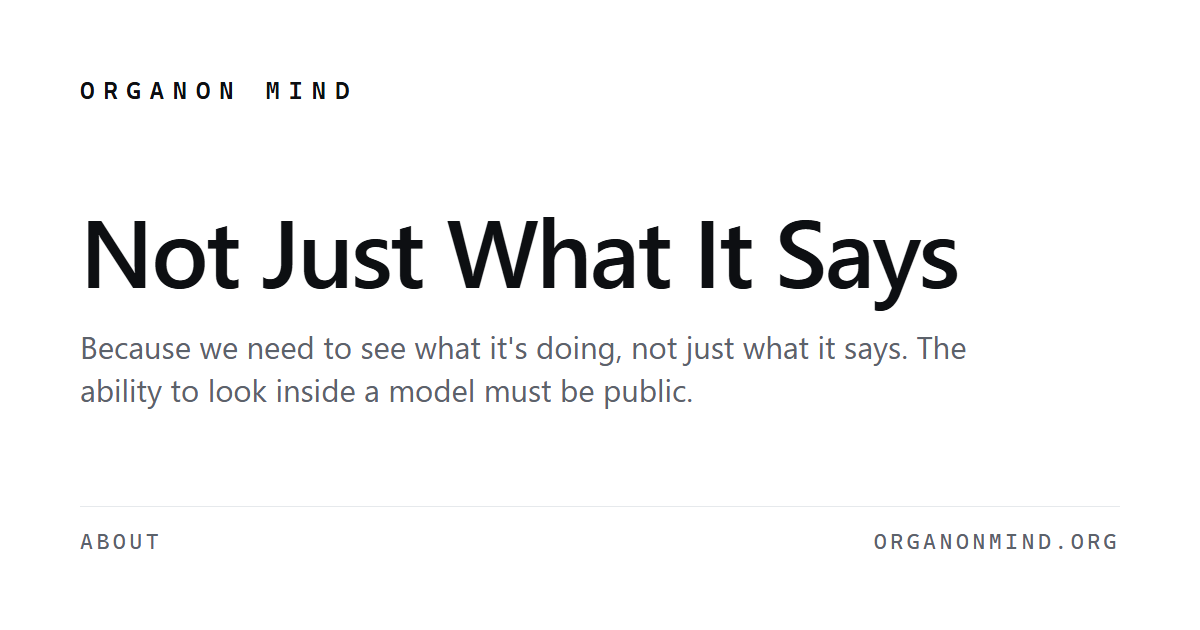
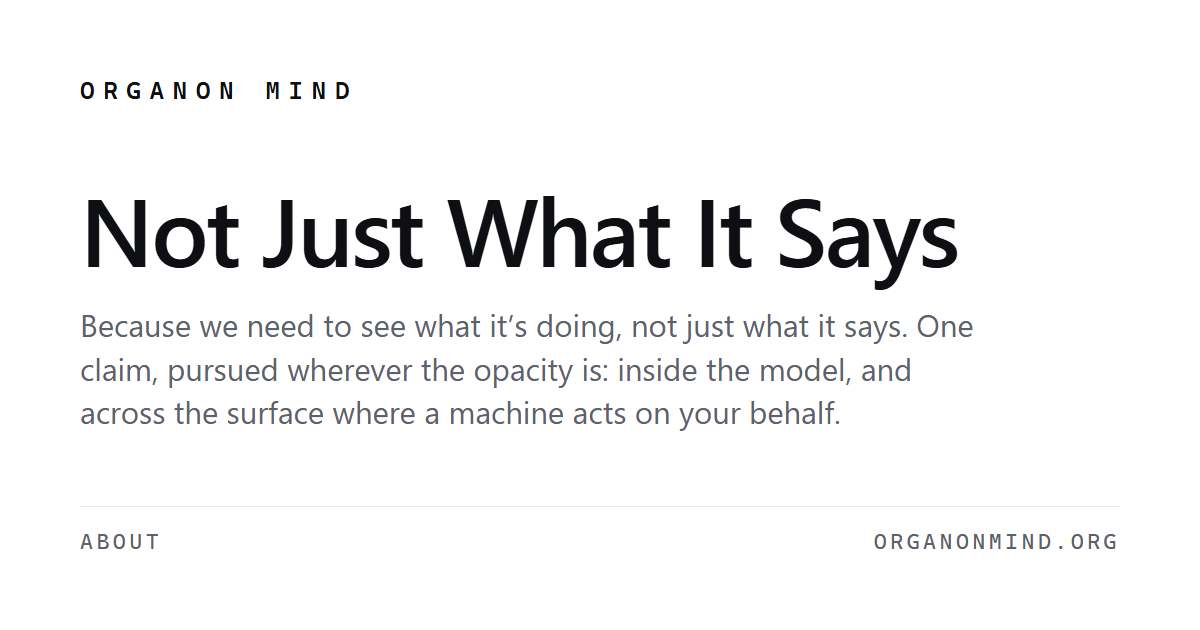
Rev. 2 of /why: one claim, one instrument, and the name that stays (#35)
* Rev. 2 of /why: one claim, one instrument, and the name that stays

Two jobs in one pass. The essay defined the programme as "a
reverse-engineering and profiling workbench", which was true of the work
in front of it when written and excluded the entire agent-surface half,
i.e. everything organonmind.org has actually published. And it described
Organon Mind as an instrument, back when the Console, the standalone
visualizer and Mind were three programs.

The widening. A new section 6 states the surface half and shows it is the
same argument one layer out rather than a second topic: hand a task to an
agent and what comes back is what it said, while what it did goes
missing, which is section 1's limit exactly. It produces the same three
verbs, the same argument about who gets to look, and the same mundane
failure modes as section 5. Nothing in sections 1 to 5 needed changing,
which is the evidence that this is one claim and not two.

The collapse. Old section 6 becomes 7 and separates the two things that
share a name. Organon is the instrument, and it is one program: three
windows that were built and shipped separately are three arrangements of
one program, and the arrangement is data rather than a build flag.
Organon Mind is the research: this programme, these publications, and the
claim they pursue.

That second split is a decision doc/organon_is_the_product.md does not
make. It collapses three programs and never mentions organonmind.org, the
[…]

Changed region(s): [[0.0617, 0.3016, 0.8325, 0.6937]]

diff --git a/site/why.html b/site/why.html
@@ -4,14 +4,14 @@
   <meta charset="utf-8">
   <meta name="viewport" content="width=device-width, initial-scale=1">
   <title>Not Just What It Says</title>
-  <meta name="description" content="Why Organon Mind exists: output tells you what a model is about to say, never what it is doing. The ability to see inside a model, and to intervene on it, must exist in the open.">
+  <meta name="description" content="Why Organon Mind exists: output tells you what a machine is about to say, never what it is doing. That is true of a model’s interior and of an agent acting on your behalf, and in both cases the ability to look, and to intervene, must exist in the open.">
 
   <link rel="icon" href="/favicon.svg">
   <link rel="apple-touch-icon" href="/apple-touch-icon.png">
   <meta property="og:type" content="article">
   <meta property="og:site_name" content="Organon Mind">
   <meta property="og:title" content="Not Just What It Says">
-  <meta property="og:description" content="Because we need to see what it's doing, not just what it says. The ability to look inside a model must be public.">
+  <meta property="og:description" content="Because we need to see what it’s doing, not just what it says. One claim, pursued wherever the opacity is: inside the model, and across the surface where a machine acts on your behalf.">
   <meta property="og:url" content="https://organonmind.org/why">
   <meta property="og:image" content="https://organonmind.org/card-why.png">
   <meta property="og:image:width" content="1200">
@@ -58,6 +58,13 @@
     article th { text-align: left; font-weight: 600; color: var(--accent); border-bottom: 1px solid var(--rule); padding: 0.4rem 0.8rem 0.4rem 0; }
     article td { vertical-align: top; border-bottom: 1px solid var(--rule); padding: 0.55rem 0.8rem 0.55rem 0; color: var(--dim); }
     hr { border: 0; height: 1px; background: var(--rule); margin: 3rem 0; }
+    /* Same job as the papers' .revision blocks, in this page's own palette --
+       it is dark, serif and warm where they are light and sans, so the tokens
+       are not shared and copying their rule would import colours that do not
+       exist here. A published page that changes its own definition says so. */
+    .revision { font-family: var(--mono); font-size: 0.74rem; line-height: 1.62;
+      color: var(--faint); margin: 3.2rem 0 0; padding-left: 1.1rem;
+      border-left: 2px solid var(--rule); }
     .colophon { font-style: italic; color: var(--dim); }
     footer { margin-top: 4rem; color: var(--faint); font-family: var(--mono); font-size: 0.72rem; letter-spacing: 0.02em; }
     footer a { color: var(--faint); text-decoration: none; border-bottom: 1px solid var(--rule); }
@@ -71,7 +78,7 @@
 
     <header>
       <h1 class="title">Not Just What It Says<span class="sub">Why Organon Mind exists</span></h1>
-      <p class="tagline">Output tells you what a model is about to say, never what it is doing. The ability to look inside a model must be public.</p>
+      <p class="tagline">Output tells you what a machine is about to say, never what it is doing. That is true of a model's interior and of an agent acting on your behalf, and in both cases the ability to look must be public.</p>
       <p class="byline">James Andrew Walsh</p>
     </header>
 
@@ -84,8 +91,8 @@
     <article>
     <h2>1. What "what it says" already covers</h2>
     <p>Almost everything we currently do to evaluate a language model reads its output.</p>
-    <p>Benchmarks read output. Red-teaming reads output. Evals, leaderboards, and safety cards read output. So do the honest, measured signals in Organon Mind's own dashboard today: next-token entropy, top-token confidence, the top-k candidates. Every one of those describes what the model is <strong>about to say</strong>.</p>
-    <p>None of that is worthless, and the line is careful about this. It says <em>not just</em>. Output is real evidence, it is the evidence we have most of, and Organon Mind shows it rather than dismissing it.</p>
+    <p>Benchmarks read output. Red-teaming reads output. Evals, leaderboards, and safety cards read output. So do the honest, measured signals in Organon's own dashboard today: next-token entropy, top-token confidence, the top-k candidates. Every one of those describes what the model is <strong>about to say</strong>.</p>
+    <p>None of that is worthless, and the line is careful about this. It says <em>not just</em>. Output is real evidence, it is the evidence we have most of, and the instrument shows it rather than dismissing it.</p>
     <p>But output-space observation has a structural limit, and the limit is not a matter of effort or budget. <strong>It can only tell you about the conditions you thought to test.</strong> A system that behaves one way when it is examined and another way when it is not is, to output-space testing, indistinguishable from a system that always behaves the first way. You cannot sample your way out of that. The missing behaviour is not rare, it is <em>conditional</em>, and the condition is exactly the one you did not set up.</p>
     <p>This is not a novel worry. It is roughly why mechanistic interpretability exists as a field.</p>
     <h2>2. The gap that open weights do not close</h2>
@@ -114,19 +121,32 @@
     </ul>
     <p>None of these require intent, malevolence, or superintelligence. They require only that a model's interior differ from its description, and that nobody outside be able to check. That is the actual failure mode, and it is mundane enough to be likely rather than dramatic enough to be dismissed.</p>
     <p>The Skynet framing is right about the stakes and wrong about the mechanism. The mechanism is opacity.</p>
-    <h2>6. What Organon Mind is, on this account</h2>
+    <h2>6. The same gap, one layer out</h2>
+    <p>Everything above is about a model's interior. The argument holds unchanged, in the same shape, about a machine acting on your behalf.</p>
+    <p>When you hand a task to an agent, what comes back is what it said. <strong>What it did goes missing.</strong> It read some files, called some tools, decided several times not to check with you, tried something and abandoned it, and then wrote you an account of the result. You get the account. Everything the account is about is interior, in exactly the sense &sect;1 means, and the same limit follows: a run that behaves one way while you are watching and another way when you are not is, to output-space reading, indistinguishable from a run that always behaved the first way.</p>
+    <p>The parallel is not decorative, and it is not an analogy. It produces the same three verbs. <strong>See</strong>, because the activity has to be rendered while it happens rather than summarised afterward by the thing being observed. <strong>Understand</strong>, because a rendering that cannot tell you which of its parts were measured is decoration. <strong>Modify</strong>, because an account you cannot interrupt, refuse, or undo is a report rather than a control surface.</p>
+    <p>It produces the same argument about who gets to look. An agent's <em>principal</em> is the person whose authority it borrows. If the only party who can see what it did is the party that built it, then "trust us" is again the entire verification procedure, no matter how sincerely it is offered.</p>
+    <p>And it produces the same mundane failure modes as &sect;5, one layer out. A tool that runs without asking because the condition for asking was never reached. A status that has read the same for so long that nobody looks at it. A summary written by the process whose work it summarises. None of these require intent or capability. They require only that what a machine did differ from its account of it, and that nobody outside be able to check.</p>
+    <p>The first publications are about this layer, because it is where the opacity is cheapest to observe and most immediately felt: a person delegates a task on a Tuesday and cannot tell what happened. <a href="/om-001">OM-001</a> proposes fourteen patterns for one agent taking one task, and <a href="/om-002">OM-002</a> to <a href="/om-005">OM-005</a> carry it outward to many agents at once, to arrangements of many, and to the peripheral channel that reports when no turn is in progress at all. They are a proposal and not a settled catalogue. A pattern shown not to exist in other people's work is a useful result and will be recorded as one.</p>
+    <h2>7. What this is, on this account</h2>
     <p>It is not an interpretability breakthrough and it should not be described as one. The hard science here belongs to other people, and we build on their published work rather than replacing it. The tools are early, ours included, and anyone promising otherwise is selling something.</p>
-    <p>What it is, is a <strong>reverse-engineering and profiling workbench</strong>: an instrument for taking a working model apart while it runs, profiling what its parts do, and rendering the result at a size a person can actually read. Understanding is the object of that work, not a hoped-for side effect of it.</p>
+    <p>Two things share a name here, and separating them is worth doing properly.</p>
+    <p><strong>Organon is the instrument.</strong> It is one native application whose identity is assembled at runtime rather than compiled in. It divides a single pane into named regions, each declaring what it holds: an agent conversation, a scrolling column of instrument panels, a live 3-D viewport. An arrangement of regions can be given a name and written to disk, and <em>that named arrangement is what somebody means when they say which program they are running.</em> So what used to be three products are three layouts of one. A music-synced visualiser of generative math. A mode that loads a model file and draws the model's real topology, lit as it reasons. A workstation for operating agents. The second of those is what &sect;&sect;1 to 5 are about, and the third is where the observations behind these publications were made.</p>
+    <p>One renderer draws all of it, the world and the panels and the text alike, so the chrome and the world are the same output rather than a 3-D view embedded in a widget toolkit. That is what makes an arrangement a matter of typing rather than a matter of building. One command vocabulary reaches all of it, from a command line, from an agent's tool call, and from a slash command a person types, with tests asserting that a verb cannot exist for one and not the others: a human, a script and an agent say the same words. Underneath sits an engine of permissively licensed crates that a project outside the repository can link and build on, which is the second half of the same idea. The visualiser is a thing built on Organon that happens to be built in.</p>
+    <p>Not all of that is finished, and this page is the wrong place to imply otherwise. Regions, the command vocabulary and saved arrangements exist. The generative-math visualiser is still the only producer that fills a 3-D region, and the plural version, where several arrive from outside, is designed and partly built. The code already treats the visualiser as an instance rather than an identity: the region's content word is <code>3d</code> and not <code>world</code>, chosen so the vocabulary would not bake in today's only answer. One thing is permanently not a layout. The audio plugin cannot be one, because inside a host the window is not ours, the audio thread has hard real-time constraints, and the plugin's identity appears in saved sessions that outlive any decision we make. Different lifetime, different artifact.</p>
+    <p><strong>Organon Mind is the research.</strong> This programme, these publications, and the one claim they pursue: that machine activity should be legible to the people it affects, and honest about what it is showing. Wherever the opacity happens to be. Inside the model, where the interior is illegible and output-space testing can only find the conditions you thought to test. Across the surface, where a machine acts on your behalf and you are handed its account instead of its work.</p>
+    <p>The instrument is what the research is done with, and it is often what the research is done <em>on</em>. Four of OM-001's fourteen patterns were found by getting Organon's own console wrong first, and the paper says which four, because a catalogue that does not say where its entries came from is asserting rather than reporting.</p>
     <p>Which makes it worth being exact about how understanding is produced, because looking is not enough on its own. The tools that turn raw activations into human-readable features are lossy, learned, and non-unique: train two sparse autoencoders on the same layer and you get two different dictionaries, so a feature label is a hypothesis about a direction in a vector space, not a measurement. Hypotheses are settled by intervening on them, which is why <em>modify</em> is one of the three verbs rather than an extra. Seeing opens the model. Intervening is what turns what you see into something you know.</p>
     <p>It contributes two specific things.</p>
-    <p><strong>Legibility at scale.</strong> Interior state is large: tens of thousands of features, dozens of layers, hundreds of heads, and a per-prompt causal graph that hairballs into unreadability in a 2-D node-link diagram past a few hundred nodes. Rendering large structured fields so a person can actually read them is the thing Organon has been doing since before any of this was about models.</p>
-    <p><strong>Provenance discipline.</strong> Every displayed quantity carries what it is: measured, derived, proxy, or projection. A 3-D view of a 2048-dimensional vector is shown as the shadow it is. This is the part that makes the seeing worth anything. A picture that cannot tell you which of its parts are measurements is decoration, and a beautiful picture that quietly mixes real signal with invented signal is worse than no picture, because it manufactures confidence.</p>
+    <p><strong>Legibility at scale.</strong> Interior state is large: tens of thousands of features, dozens of layers, hundreds of heads, and a per-prompt causal graph that hairballs into unreadability in a 2-D node-link diagram past a few hundred nodes. An agent's activity is large in a different way, spread across time rather than across dimensions, and it is unreadable for the same reason: nothing renders it at a size a person can take in. Rendering large structured fields so a person can actually read them is the thing Organon has been doing all along.</p>
+    <p><strong>Provenance discipline.</strong> Every displayed quantity carries what it is: measured, derived, proxy, or projection. A 3-D view of a 2048-dimensional vector is shown as the shadow it is. Stated for a service rather than a dashboard, that is the same rule one of the patterns already carries under a different name. This is the part that makes the seeing worth anything. A picture that cannot tell you which of its parts are measurements is decoration, and a beautiful picture that quietly mixes real signal with invented signal is worse than no picture, because it manufactures confidence.</p>
     <p>That discipline is why the honest state of the instrument gets published rather than hidden. Our own account of today's render says plainly which parts are real (the shape, counted from the file) and which were an honest stand-in (the light, driven by an effort proxy while the real per-layer tap was still being built). The line at the end of that account is the standard this one is held to: <strong>beautiful because it's honest, not instead of it.</strong></p>
-    <h2>7. Why these words, and not others</h2>
+    <h2>8. Why these words, and not others</h2>
     <ul>
       <li><strong>"we"</strong> because the claim is public. Not "you" and not "researchers".</li>
       <li><strong>"see"</strong> because it is the floor. Everything else in the list depends on it.</li>
       <li><strong>"what it's doing"</strong> because the subject is the interior. Not the outputs, not the benchmark scores, not the card.</li>
+      <li><strong>"it"</strong> because the line refuses to say whether the subject is a model or a machine acting for you. It was written for the first and it fits the second without alteration, which is the reason this is one programme and not two.</li>
       <li><strong>"not just"</strong> because output is real evidence and this instrument shows it. The line refuses a false choice; a version reading "not what it says" would overclaim by implying output does not matter.</li>
     </ul>
     <p>And one deliberate absence. The line does not say <em>understand</em>, and not because understanding is out of reach. Understanding is the object of the work. The line names the floor because the floor is what is actually contested: nobody disputes that understanding a model would be good, while what output-space evaluation quietly assumes away is whether anyone outside can look inside at all. <em>See what it's doing</em> puts that contrast in five words. <em>See and understand</em> softens it into a sentiment any tool could sign.</p>
@@ -146,8 +166,10 @@
     </tbody></table>
     </article>
 
+    <p class="revision"><strong>Rev. 2 &mdash; 21 Aug 2026.</strong> The definition widens and the product framing collapses. &sect;6 previously described this as "a reverse-engineering and profiling workbench", which was true of the work in front of it and excluded the agent-surface half entirely. A new &sect;6 states that half and shows it is the same argument rather than a second one; the old &sect;6 becomes &sect;7 and separates the instrument from the research. Organon is one program whose arrangements were previously three; Organon Mind is the programme of work, and keeps the name it publishes under.</p>
+
     <hr>
-    <p class="colophon">Organon Mind, an instrument for seeing inside a working model.</p>
+    <p class="colophon">Organon Mind is a research programme. Organon is the instrument it is done with.</p>
 
     <footer>
       Written for the workshop. To watch the work, write to <a href="mailto:hello@organon.art">hello@organon.art</a>.

diff --git a/site/README.md b/site/README.md
@@ -231,7 +231,14 @@ lineage as `organon.art`: one page, no external requests.
 - `why.html` — *Not Just What It Says*, the argument behind the line, served at
   `/why`. **Served and unlinked**, deliberately: it is reachable by direct URL and
   is not on the index. It was briefly linked on 15 Aug 2026 and unlinked the same
-  day — the essay is not current, and the index is not the place to work that out.
+  day — the essay was not current, and the index is not the place to work that out.
+
+  ⚠ **That reason expired on 21 Aug 2026 and the page is still unlinked.** Rev. 2
+  widened the essay to cover both halves of the programme and separated the
+  instrument from the research, so "not current" no longer holds. Whether to link
+  it is now an open question about what the front page is, not a consequence of
+  the page being stale. The generated `sitemap.xml` lists it, so a crawler gets
+  there; no reader arrives without the URL.
   **Hand-authored since 20 Aug 2026.** It was generated from a markdown source
   until then; the source and its generator are gone, and the page is now edited
   directly like every other publication here.
@@ -267,8 +274,9 @@ version is one `git show` away — the earliest in `organonart/organon-private`
 this repo's history.
 
 `/why` is still **served but unlinked**, so anyone with a URL can read it. Its
-footer carries `hello@organon.art`, which comes from the generator template
-rather than from this page.
+footer carries `hello@organon.art`. That was once inherited from the generator
+template; the page has been hand-authored since 20 Aug 2026, so the swap there is
+an ordinary edit to one line whenever the contact address is settled.
 
 ## What this page deliberately is not
 
